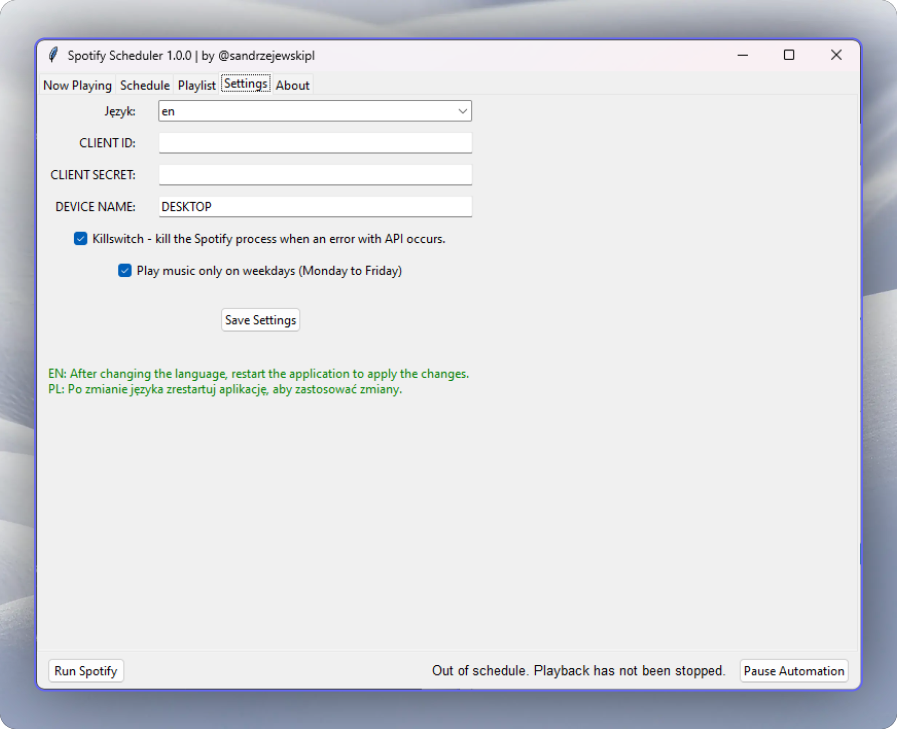
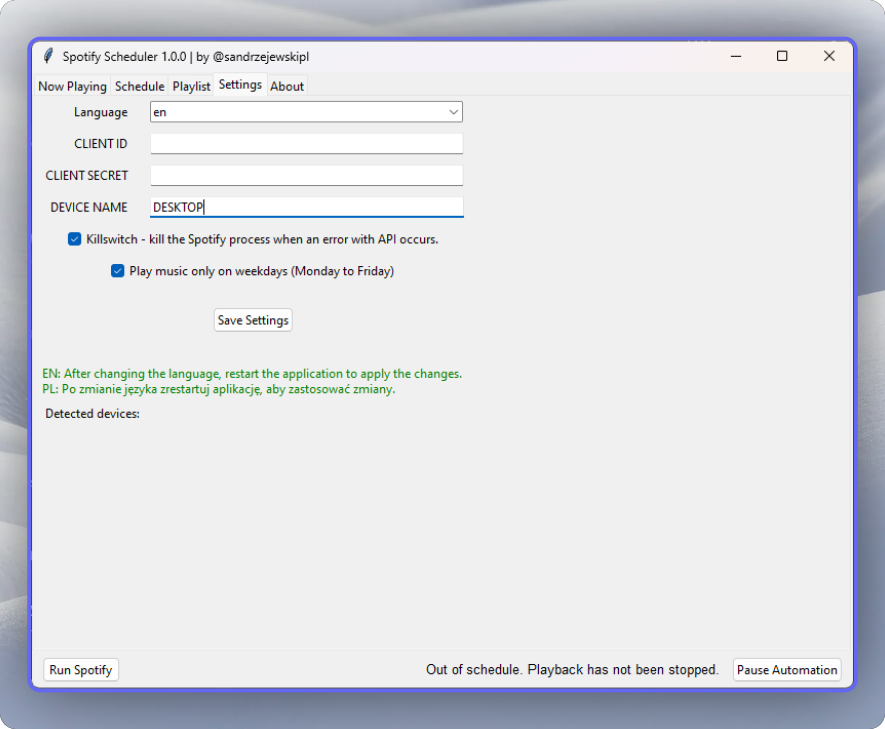
v1.1

Changed region(s): [[0.0, 0.0302, 0.9763, 0.9657], [0.2441, 0.4225, 0.3356, 0.4527], [0.4881, 0.1509, 0.5186, 0.1811]]

diff --git a/main.py b/main.py
@@ -18,7 +18,7 @@ import subprocess
 import platform
 from translations import translations
 
-version="1.0.0"
+version="1.1.0"
 
 def load_config(config_file="config.json"):
     try:
@@ -166,7 +166,7 @@ setting_entries = {}
 setting_vars = {}
 
 # Language selection 
-ttk.Label(settings_frame, text="Język:").grid(row=0, column=0, padx=10, pady=5, sticky=tk.E)
+ttk.Label(settings_frame, text=_("Language")).grid(row=0, column=0, padx=10, pady=5, sticky=tk.E)
 language_var = tk.StringVar(value=config.get('LANG', 'en'))
 
 language_combobox = ttk.Combobox(settings_frame, textvariable=language_var, state="readonly", width=47)
@@ -174,17 +174,17 @@ language_combobox['values'] = ('en', 'pl')
 language_combobox.grid(row=0, column=1, padx=10, pady=5)
 
 # CLIENT ID
-ttk.Label(settings_frame, text="CLIENT ID:").grid(row=1, column=0, padx=10, pady=5, sticky=tk.E)
+ttk.Label(settings_frame, text="CLIENT ID").grid(row=1, column=0, padx=10, pady=5, sticky=tk.E)
 setting_entries['CLIENT_ID'] = ttk.Entry(settings_frame, width=50)
 setting_entries['CLIENT_ID'].grid(row=1, column=1, padx=10, pady=5)
 
 # CLIENT SECRET
-ttk.Label(settings_frame, text="CLIENT SECRET:").grid(row=2, column=0, padx=10, pady=5, sticky=tk.E)
+ttk.Label(settings_frame, text="CLIENT SECRET").grid(row=2, column=0, padx=10, pady=5, sticky=tk.E)
 setting_entries['CLIENT_SECRET'] = ttk.Entry(settings_frame, show="*", width=50)
 setting_entries['CLIENT_SECRET'].grid(row=2, column=1, padx=10, pady=5)
 
 # DEVICE NAME
-ttk.Label(settings_frame, text="DEVICE NAME:").grid(row=3, column=0, padx=10, pady=5, sticky=tk.E)
+ttk.Label(settings_frame, text="DEVICE NAME").grid(row=3, column=0, padx=10, pady=5, sticky=tk.E)
 setting_entries['DEVICE_NAME'] = ttk.Entry(settings_frame, width=50)
 setting_entries['DEVICE_NAME'].grid(row=3, column=1, padx=10, pady=5)
 
@@ -200,6 +200,13 @@ save_btn.grid(row=6, columnspan=2, pady=20)
 
 text_label = ttk.Label(settings_frame, text="EN: After changing the language, restart the application to apply the changes. \nPL: Po zmianie języka zrestartuj aplikację, aby zastosować zmiany.", foreground="green")
 text_label.grid(row=7, columnspan=2, pady=10)
+
+devices_list = tk.StringVar()
+devices_list.set("")
+
+devices_label = ttk.Label(settings_frame, textvariable=devices_list, wraplength=500, anchor="w")
+devices_label.place(x=10, y=300)
+
 
 
 log_file = open("output_log.txt", "a", encoding="utf-8")
@@ -634,11 +641,16 @@ def update_now_playing_info():
 
         # Get active device
         target_device_name = _("No device")
+        device_list=''
         if devices and "devices" in devices:
             for device in devices["devices"]:
+                name = device.get("name", _("Unknown device"))
+                device_list+=(f"{name}; ")
                 if device.get("is_active"):
-                    target_device_name = device.get("name", _("Unknown device"))
+                    target_device_name = name
                     break
+        devices_string=f"{_('Detected devices')}:\n{device_list}"
+        devices_list.set(devices_string)
 
         if current_playback and "item" in current_playback and current_playback["item"]:
             track = current_playback["item"]

diff --git a/translations.py b/translations.py
@@ -64,6 +64,8 @@ translations = {
         "Playback has been paused.": "Odtwarzanie zostało wstrzymane.",
         "check_schedule": "Sprawdź poniższy harmonogram na dziś i dostosuj go w razie potrzeby. Skrypt zostanie uruchomiony za 5 sekund.\n",
         "out_of_schedule": "Czas poza harmonogramem. Odtwarzanie nie zostało zatrzymane.",
+        "Language": "Język",
+        "Detected devices": "Wykryte urządzenia"
 
 
 
